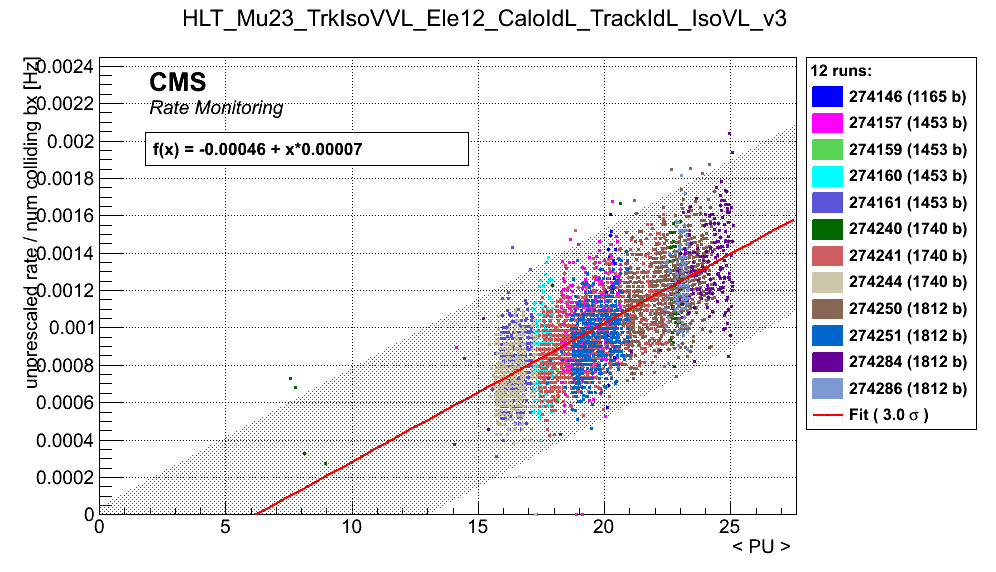
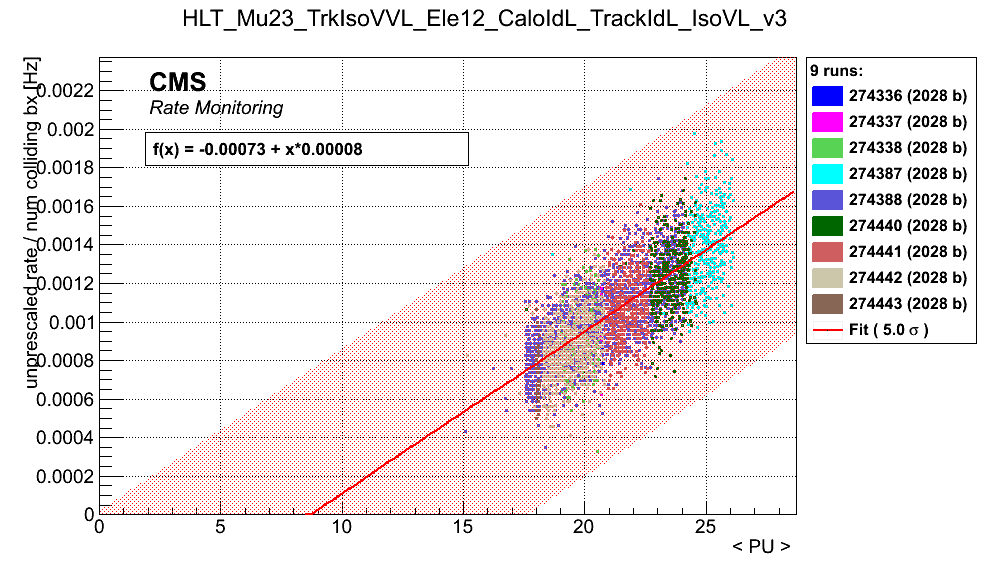
updating fits, switching to 5sigma error bands temporarily

diff --git a/ShiftMonitorNCR.py b/ShiftMonitorNCR.py
@@ -100,7 +100,7 @@ class ShiftMonitor:
         self.requireLumi = False        # If true, we only display tables when aveLumi is not None
         # Trigger behavior
         self.percAccept = 50.0          # The acceptence for % diff
-        self.devAccept = 3              # The acceptance for deviation
+        self.devAccept = 5              # The acceptance for deviation
         self.badRates = {}              # A dictionary: [ trigger name ] { num consecutive bad , whether the trigger was bad last time we checked, rate, expected, dev }
         self.recordAllBadTriggers = {}  # A dictionary: [ trigger name ] < total times the trigger was bad >
         self.maxCBR = 3                 # The maximum consecutive db queries a trigger is allowed to deviate from prediction by specified amount before it's printed out
